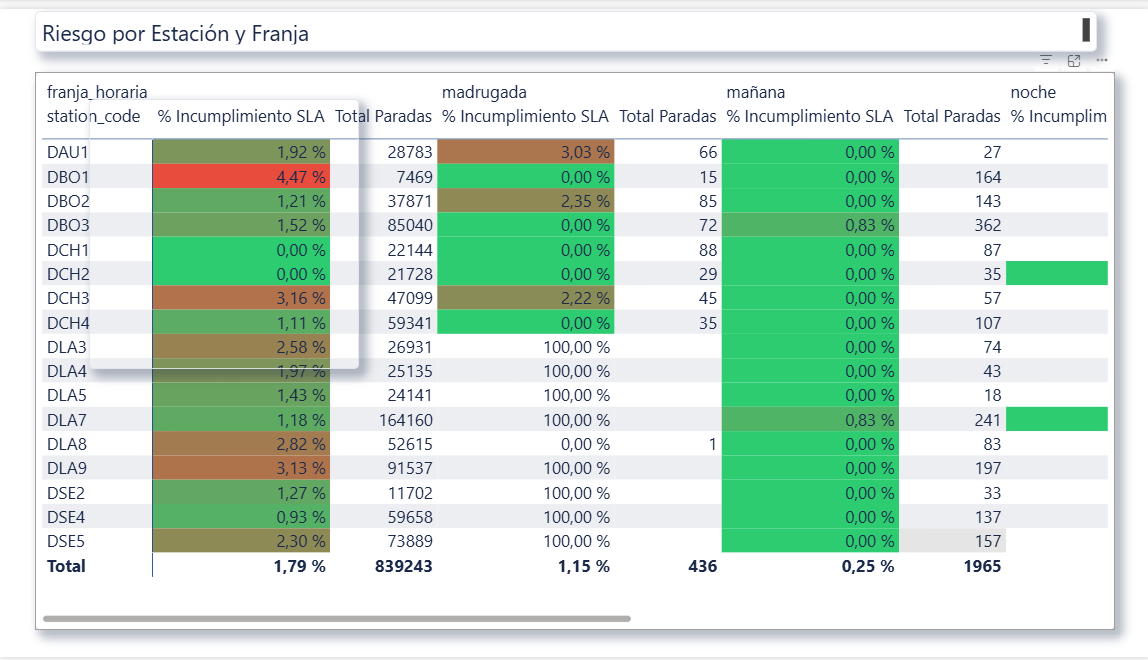
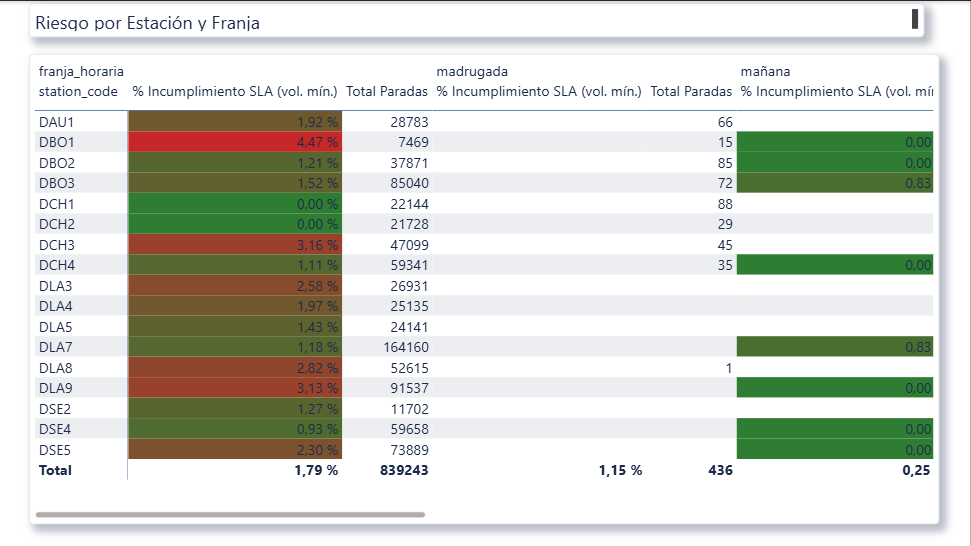
Dashboard: umbral de volumen minimo en la matriz Estacion x Franja + README y captura actualizados

diff --git a/README.md b/README.md
@@ -80,7 +80,7 @@ Matriz por zona con riesgo promedio y volumen de paradas, más el ranking de las
 
 ### 3. Riesgo por Estación y Franja
 
-Matriz cruzada `station_code` x `franja_horaria` con % de incumplimiento y mapa de calor condicional. El volumen de paradas se muestra al lado a propósito: varias celdas de bajo volumen muestran 100% de incumplimiento, que es ruido estadístico y no una alerta real sin esa columna de contexto.
+Matriz cruzada `station_code` x `franja_horaria` con % de incumplimiento y mapa de calor condicional. El volumen de paradas se muestra al lado a propósito, y el porcentaje solo se muestra cuando la celda tiene **al menos 100 paradas**: por debajo de ese umbral la celda queda vacía en vez de exhibir un porcentaje que mide azar y no operación. Con la tasa base de ~1,8%, 100 paradas equivalen a menos de 2 incumplimientos esperados — es el piso donde el número empieza a significar algo. La celda no se oculta: sigue mostrando su volumen, para que se vea que existe y que tiene poca historia.
 
 ![Riesgo por Estación y Franja — matriz cruzada de estación por franja horaria con mapa de calor](dashboard/img/03-riesgo-estacion-franja.png)
 
@@ -92,7 +92,18 @@ Traduce las métricas técnicas a lenguaje de negocio: qué tan confiable es el 
 
 **Modelo tabular:** esquema de estrella con `Hechos_Paradas` (grano = parada, ~898K filas) y dos dimensiones, `Dim_Ruta` (route_id, station_code, date, route_score, executor_capacity_cm3) y `Dim_Zona` (zone_id, zona_riesgo_low), con relaciones varios-a-uno. 6,515 paradas (0.73%) sin `zone_id` se filtraron de las vistas por zona dado el volumen mínimo.
 
-**Medidas DAX principales:** `SLA Compliance Rate` (98.29%), `Riesgo Promedio` (1.68%), `Total Rutas` (6,112), `Total Paradas` (898,415), `% Incumplimiento SLA`.
+**Medidas DAX principales:** `SLA Compliance Rate` (98.29%), `Riesgo Promedio` (1.68%), `Total Rutas` (6,112), `Total Paradas` (898,415), `% Incumplimiento SLA`, y `% Incumplimiento SLA (vol. mín.)` — esta última aplica el umbral de volumen descrito arriba:
+
+```dax
+% Incumplimiento SLA (vol. mín.) =
+IF (
+    [Total Paradas] >= 100,
+    [% Incumplimiento SLA],
+    BLANK ()
+)
+```
+
+Se resolvió con una medida y no con un filtro del objeto visual a propósito: un filtro habría eliminado filas enteras, perdiendo franjas de la misma estación que sí tienen volumen suficiente. La medida apaga únicamente la celda que no se sostiene.
 
 ## Próximos pasos
 
